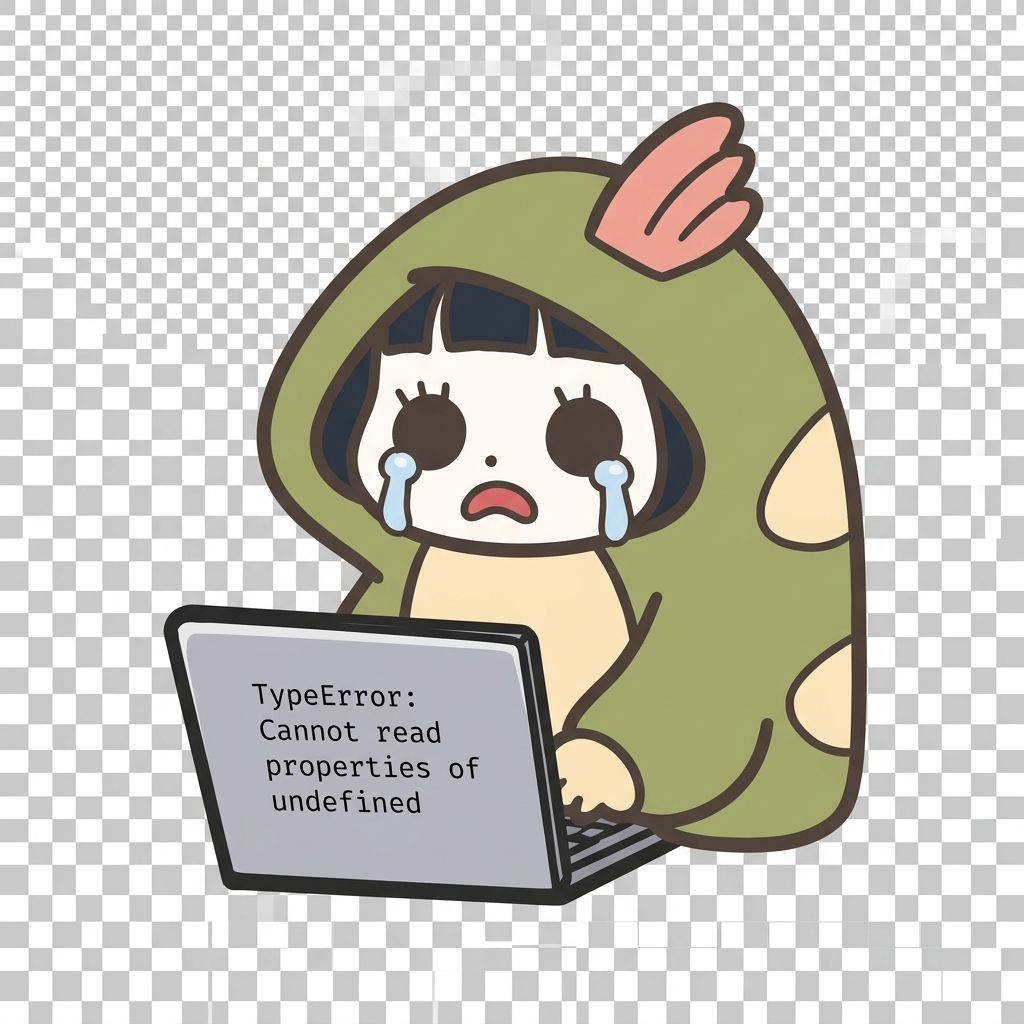
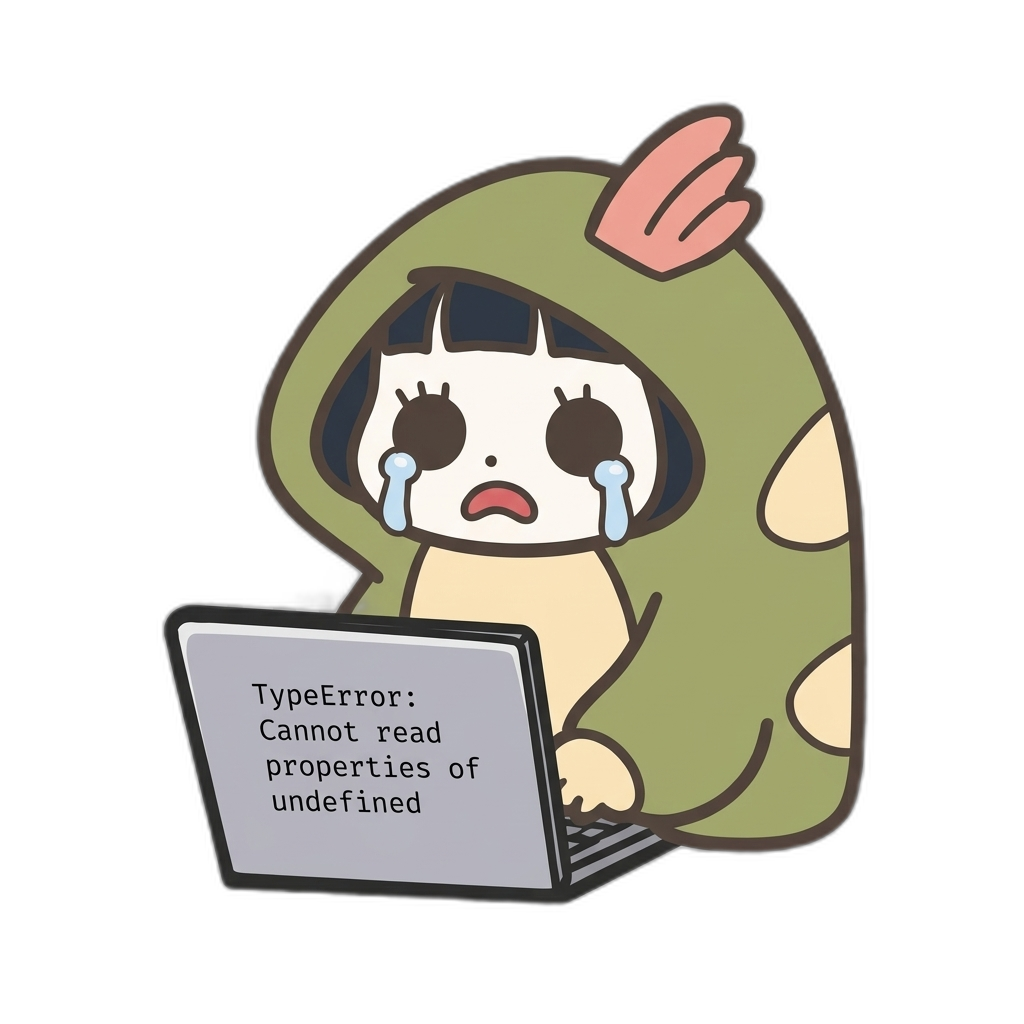
キャラクター

diff --git a/index.html b/index.html
@@ -121,7 +121,7 @@
 <div class="absolute top-5 left-5 w-10 h-10 bg-pta-pink text-white flex items-center justify-center rounded-full font-bold text-xl shadow-sm">01</div>
 <div class="flex flex-col items-center pt-6">
 <div class="mb-5 text-pta-pink">
-<svg class="h-16 w-16" fill="none" stroke="currentColor" viewbox="0 0 24 24" xmlns="http://www.w3.org/2000/svg"><path d="M3 8l7.89 5.26a2 2 0 002.22 0L21 8M5 19h14a2 2 0 002-2V7a2 2 0 00-2-2H5a2 2 0 00-2-2v10a2 2 0 002 2z" stroke-width="1.5"></path></svg>
+<svg class="h-16 w-16" fill="none" stroke="currentColor" viewbox="0 0 24 24" xmlns="http://www.w3.org/2000/svg"><path stroke-linecap="round" stroke-linejoin="round" stroke-width="1.5" d="M21.75 6.75v10.5a2.25 2.25 0 01-2.25 2.25h-15a2.25 2.25 0 01-2.25-2.25V6.75m19.5 0A2.25 2.25 0 0019.5 4.5h-15a2.25 2.25 0 00-2.25 2.25m19.5 0v.243a2.25 2.25 0 01-1.07 1.916l-7.5 4.615a2.25 2.25 0 01-2.36 0L3.32 8.91a2.25 2.25 0 01-1.07-1.916V6.75"></path></svg>
 </div>
 <h3 class="text-xl font-black mb-4 text-gray-800">一斉送信テンプレート集</h3>
 <p class="text-sm text-gray-600 text-center leading-relaxed mb-6 font-bold">すぐに使えるお知らせメールの<br/>テンプレートをダウンロードできます。</p>
